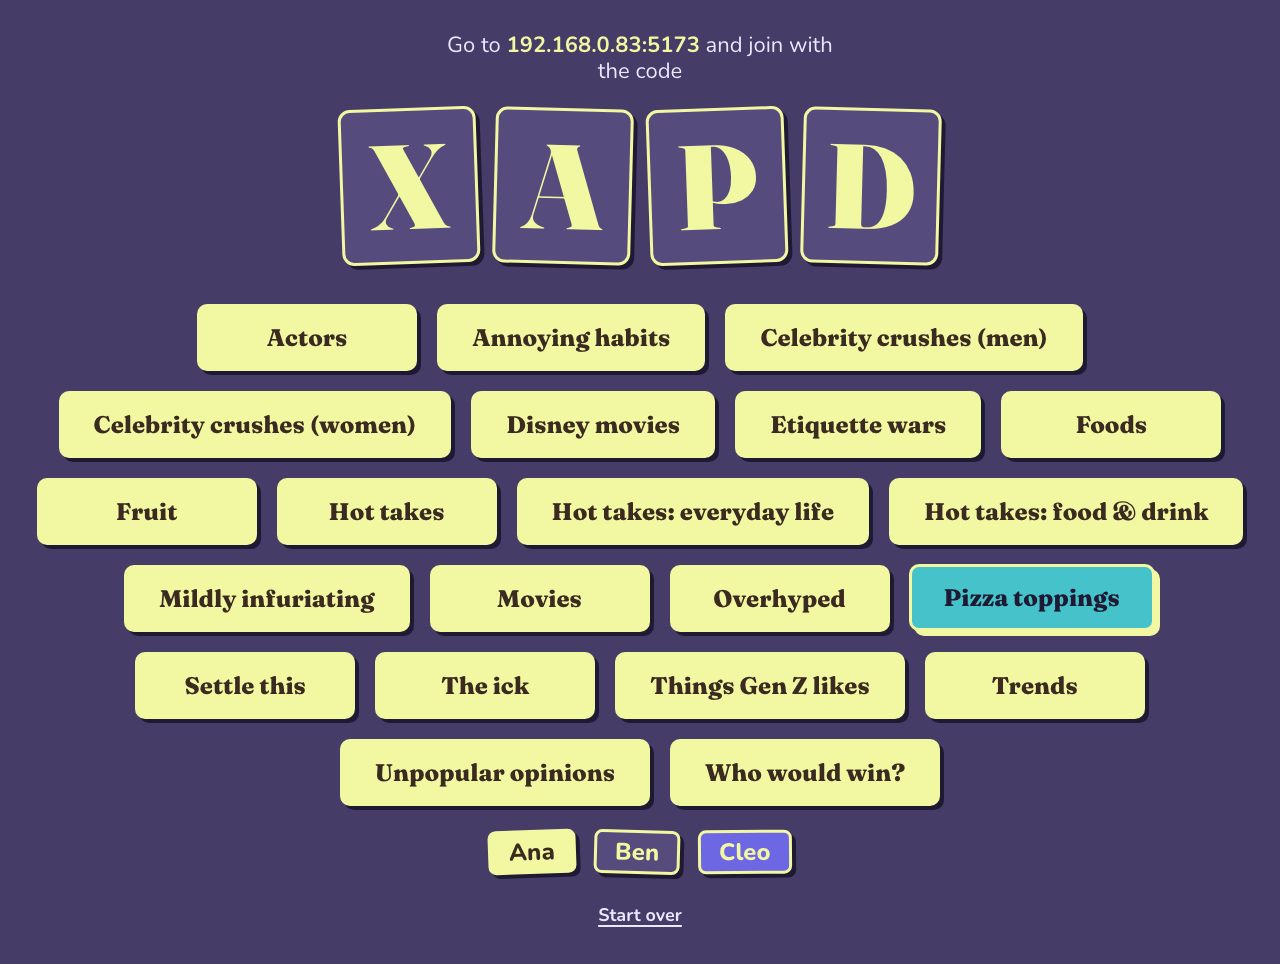
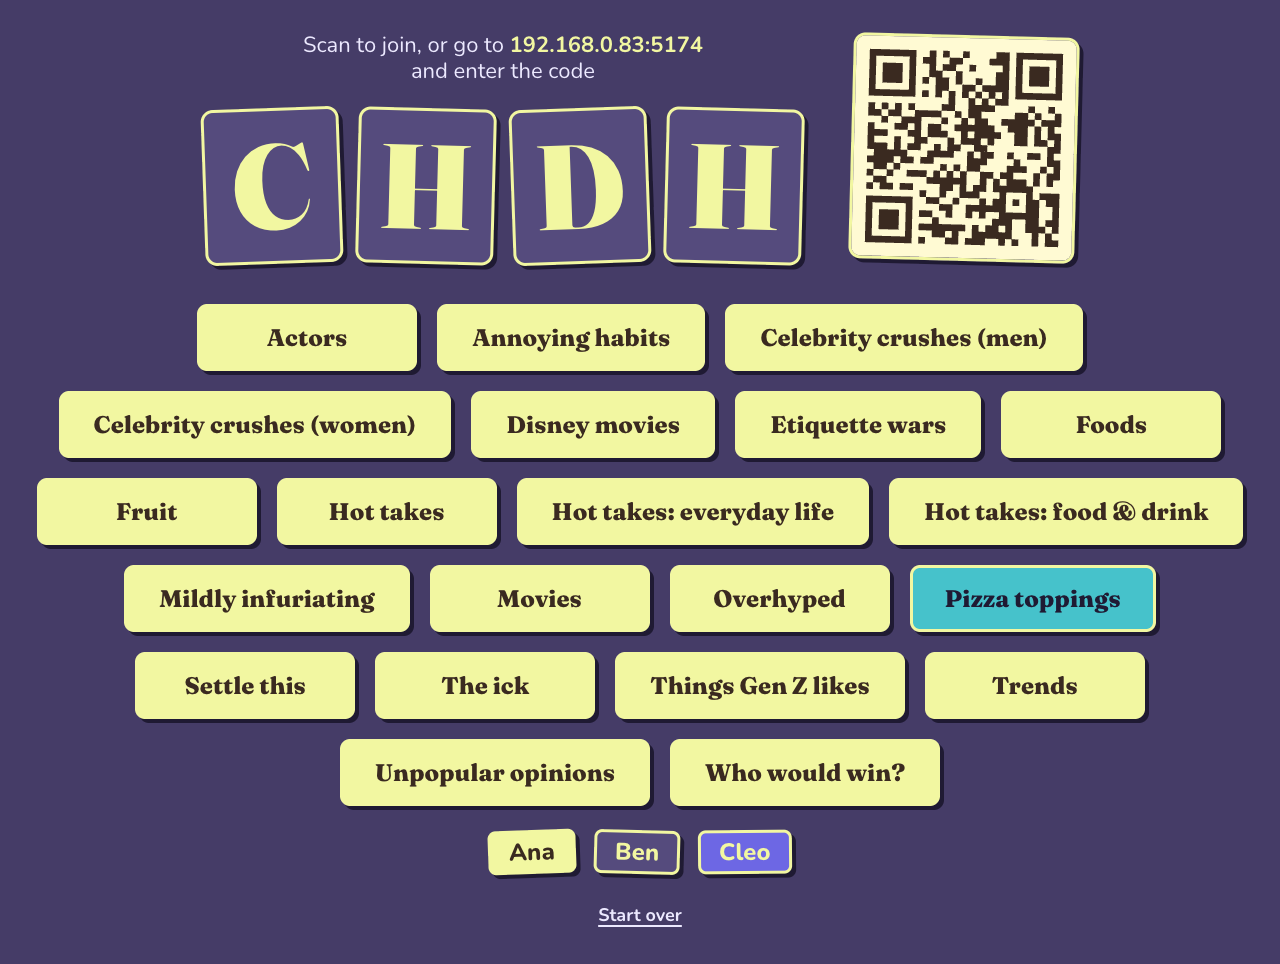
Add QR code to lobby for easy joining

Changed region(s): [[0.1562, 0.0311, 0.8438, 0.2801], [0.7188, 0.5913, 0.9062, 0.6846]]

diff --git a/frontend/src/tv/LobbyScreen.tsx b/frontend/src/tv/LobbyScreen.tsx
@@ -1,14 +1,15 @@
 import { useEffect, useState } from 'react'
-import { fetchServerConfig, type ServerConfig } from '../game'
+import { QRCodeSVG } from 'qrcode.react'
+import { fetchServerConfig, joinLink, type ServerConfig } from '../game'
 import { StartCountdown } from '../components/Countdown'
 import { type GameScreenProps } from './GameScreen'
 import { QuizSelector } from '../components/QuizSelector'
-// Where players should go to join, as shown on the TV:
+// Where players should go to join, as shown on the TV and in the QR code:
 // 1. PUBLIC_URL, when the server has one set (a domain, or a NAS's fixed name or IP).
 // 2. Otherwise the address the TV was opened with, e.g. http://192.168.1.20:5174 on a home server.
 // 3. Except when the TV is on the server itself via localhost, which phones can't reach: then the
 //    server's local network IP, on the same port.
-function useJoinAddress() {
+function useJoinUrl() {
   const [config, setConfig] = useState<ServerConfig | null>(null)
   useEffect(() => {
     fetchServerConfig()
@@ -16,17 +17,17 @@ function useJoinAddress() {
       .catch(() => {})
   }, [])
 
-  const { hostname, host, port } = window.location
-  if (config?.publicUrl) return config.publicUrl.replace(/^https?:\/\//, '').replace(/\/+$/, '')
-  const onThisMachine = ['localhost', '127.0.0.1', '[::1]'].includes(hostname)
-  if (onThisMachine && config?.lanAddress) {
-    return port ? `${config.lanAddress}:${port}` : config.lanAddress
+  const publicUrl = config?.publicUrl && URL.parse(config.publicUrl)
+  if (publicUrl) return publicUrl
+  const url = new URL(window.location.origin)
+  if (['localhost', '127.0.0.1', '[::1]'].includes(url.hostname) && config?.lanAddress) {
+    url.hostname = config.lanAddress
   }
-  return host
+  return url
 }
 
 export function LobbyScreen({ game, send, onStartOver }: GameScreenProps) {
-  const joinAddress = useJoinAddress()
+  const joinUrl = useJoinUrl()
   // Once someone presses Start, joining is closed, so the code gives way to the countdown.
   if (game.startingInMs != null) {
     return (
@@ -44,17 +45,32 @@ export function LobbyScreen({ game, send, onStartOver }: GameScreenProps) {
 
   return (
     <main className="screen">
-      <p className="tagline">
-        Go to <strong>{joinAddress}</strong> and join with the code
-      </p>
-      <div
-        className="game-code"
-        role="img"
-        aria-label={`Game code ${game.code.split('').join(' ')}`}
-      >
-        {game.code.split('').map((letter, i) => (
-          <span key={i}>{letter}</span>
-        ))}
+      <div className="join-info">
+        <div className="join-code">
+          <p className="tagline">
+            Scan to join, or go to <strong>{joinUrl.host}</strong> and enter the code
+          </p>
+          <div
+            className="game-code"
+            role="img"
+            aria-label={`Game code ${game.code.split('').join(' ')}`}
+          >
+            {game.code.split('').map((letter, i) => (
+              <span key={i}>{letter}</span>
+            ))}
+          </div>
+        </div>
+        {/* Opens the join screen with the code already filled in. Dark on cream in both colour
+            modes: some phone cameras can't read a light-on-dark code. */}
+        <QRCodeSVG
+          className="join-qr"
+          value={joinLink(joinUrl, game.code)}
+          size={200}
+          marginSize={2}
+          fgColor="#3a2a20"
+          bgColor="#fffad3"
+          title="Scan to join this game"
+        />
       </div>
       <QuizSelector game={game} send={send} />
       {game.players.length > 0 ? (

diff --git a/frontend/src/App.tsx b/frontend/src/App.tsx
@@ -1,10 +1,12 @@
 import { useEffect, useState } from 'react'
 import {
   clearHostedGameCode,
+  clearJoinLinkCode,
   clearPlayerSeat,
   fetchGame,
   GameNotFoundError,
   getHostedGameCode,
+  getJoinLinkCode,
   getPlayerSeat,
   joinGame,
   type PlayerSeat,
@@ -24,7 +26,8 @@ type SavedGame = { as: 'host'; code: string } | { as: 'player'; seat: PlayerSeat
 
 type Screen =
   | { name: 'home' }
-  | { name: 'join' }
+  // code: from a join link (the QR code in the lobby), to fill in.
+  | { name: 'join'; code?: string }
   | { name: 'restoring'; saved: SavedGame }
   | { name: 'offline'; saved: SavedGame }
   | { name: 'game'; game: Game }
@@ -41,11 +44,22 @@ function savedCode(saved: SavedGame) {
   return saved.as === 'host' ? saved.code : saved.seat.code
 }
 
+// Read once, when the page loads: the address bar is cleared straight after.
+const joinLinkCode = getJoinLinkCode()
+
+// A join link (the QR code in the lobby) for a game this browser isn't already in goes to the join
+// screen; the saved game is only replaced once they've actually joined. Otherwise reconnect to the
+// saved game, if there is one.
+function getFirstScreen(): Screen {
+  const saved = getSavedGame()
+  if (joinLinkCode && (!saved || savedCode(saved) !== joinLinkCode)) {
+    return { name: 'join', code: joinLinkCode }
+  }
+  return saved ? { name: 'restoring', saved } : { name: 'home' }
+}
+
 function App() {
-  const [screen, setScreen] = useState<Screen>(() => {
-    const saved = getSavedGame()
-    return saved ? { name: 'restoring', saved } : { name: 'home' }
-  })
+  const [screen, setScreen] = useState<Screen>(getFirstScreen)
 
   // Reconnect to the game saved in a cookie. Only a missing game (or player) forgets it: a network
   // error keeps it so the screen can retry once the connection is back.
@@ -100,8 +114,9 @@ function App() {
   }
 
   useEffect(() => {
-    const saved = getSavedGame()
-    if (saved) loadSavedGame(saved)
+    clearJoinLinkCode()
+    const first = getFirstScreen()
+    if (first.name === 'restoring') loadSavedGame(first.saved)
   }, [])
 
   // The TV and the phones follow their game live (players joining, the game starting, votes), and
@@ -176,6 +191,7 @@ function App() {
     case 'join':
       return (
         <JoinScreen
+          initialCode={screen.code}
           onJoined={(seat) => {
             // Load the game the same way as a reconnect, so a dropped connection right after
             // joining lands on the Retry screen instead of losing the seat.

diff --git a/frontend/src/game.ts b/frontend/src/game.ts
@@ -119,3 +119,27 @@ export async function fetchGame(code: string): Promise<Game> {
   if (!res.ok) throw new Error(`Loading game ${code} failed with ${res.status}`)
   return res.json()
 }
+
+// A link that opens the join screen with the game's code filled in, for the QR code in the lobby.
+const JOIN_PARAM = 'join'
+
+export function joinLink(base: URL, code: string) {
+  const url = new URL('/', base)
+  url.searchParams.set(JOIN_PARAM, code)
+  return url.href
+}
+
+// The code from a join link this page was opened with, if any.
+export function getJoinLinkCode(): string | null {
+  const code = new URLSearchParams(window.location.search).get(JOIN_PARAM)?.toUpperCase()
+  return code && /^[A-Z]{4}$/.test(code) ? code : null
+}
+
+// Drops the code from the address bar once it's been read, so a later refresh doesn't reopen the
+// join screen.
+export function clearJoinLinkCode() {
+  const url = new URL(window.location.href)
+  if (!url.searchParams.has(JOIN_PARAM)) return
+  url.searchParams.delete(JOIN_PARAM)
+  window.history.replaceState(null, '', url)
+}

diff --git a/frontend/src/home/JoinScreen.tsx b/frontend/src/home/JoinScreen.tsx
@@ -3,13 +3,15 @@ import { JoinError, joinGame, type PlayerSeat, savePlayerSeat } from '../game'
 import { BackButton } from '../components/BackButton'
 
 export function JoinScreen({
+  initialCode = '',
   onJoined,
   onBack,
 }: {
+  initialCode?: string
   onJoined: (seat: PlayerSeat) => void
   onBack: () => void
 }) {
-  const [code, setCode] = useState('')
+  const [code, setCode] = useState(initialCode)
   const [name, setName] = useState('')
   const [joining, setJoining] = useState(false)
   const [error, setError] = useState<string | null>(null)
@@ -60,6 +62,8 @@ export function JoinScreen({
             maxLength={20}
             required
             autoComplete="nickname"
+            // Arriving from the QR code, the code is already filled in, so the name is next.
+            autoFocus={initialCode !== ''}
             placeholder="Ana"
           />
         </label>

diff --git a/frontend/src/App.css b/frontend/src/App.css
@@ -116,6 +116,37 @@
   }
 }
 
+/* In the lobby: where to join and the code, with a QR code beside them that phones can scan. */
+.join-info {
+  display: flex;
+  flex-wrap: wrap;
+  align-items: center;
+  justify-content: center;
+  gap: 24px 48px;
+}
+
+.join-code {
+  display: flex;
+  flex-direction: column;
+  align-items: center;
+  gap: 24px;
+}
+
+.join-qr {
+  display: block;
+  width: 220px;
+  height: 220px;
+  border: var(--outline);
+  border-radius: 12px;
+  box-shadow: var(--shadow);
+  transform: rotate(1.5deg);
+
+  @media (max-width: 1024px) {
+    width: 160px;
+    height: 160px;
+  }
+}
+
 .countdown {
   display: flex;
   flex-direction: column;

diff --git a/README.md b/README.md
@@ -88,7 +88,7 @@ Settings, read from the environment or from a `.env` file next to `docker-compos
 | Variable | Default | What it's for |
 | --- | --- | --- |
 | `PORT` | `5174` | The port the game is served on. The default is one above the frontend's dev port (5173), to stay clear of the usual 80, 3000 and 8080. |
-| `PUBLIC_URL` | _(empty)_ | The address the TV tells players to join at, e.g. `http://192.168.1.20:5174` or `https://games.example.com`. |
+| `PUBLIC_URL` | _(empty)_ | The address the TV tells players to join at, with `http://` or `https://`, e.g. `http://192.168.1.20:5174` or `https://games.example.com`. |
 | `POSTGRES_PASSWORD` | `votetogether` | The database password. Change it if the server is reachable from outside your home network. |
 
 **The address on the TV.** When `PUBLIC_URL` is set, the TV always shows it. Otherwise the TV
@@ -99,11 +99,13 @@ address, so set `PUBLIC_URL` in that case.
 
 ## How a game works
 
-1. **Create (TV).** _Create game_ makes a game with a 4-letter join code. The TV shows the code
-   and lists players as they join. The lobby lists every quiz (_Pizza toppings_, _Hot takes_,
+1. **Create (TV).** _Create game_ makes a game with a 4-letter join code. The TV shows the code,
+   a QR code for it, and lists players as they join. The lobby lists every quiz (_Pizza toppings_, _Hot takes_,
    _The ick_…), and the TV or any phone can pick one until the game starts. Each quiz has 10
    items, and an item can have a photo with its credit (author, licence, source).
-2. **Join (phones).** Players enter the code and a name. A game holds up to 20 players.
+2. **Join (phones).** Players enter the code and a name. A game holds up to 20 players. Scanning
+   the QR code opens a join link (`/?join=ABCD`) with the code already filled in, so they only
+   type a name. A phone already in that game just goes back to it.
 3. **Start (any phone).** Any player can press _Start game_ once everyone is in. That starts a
    7-second countdown on every screen and closes the game to new players. Anyone can cancel it,
    which reopens the lobby.
